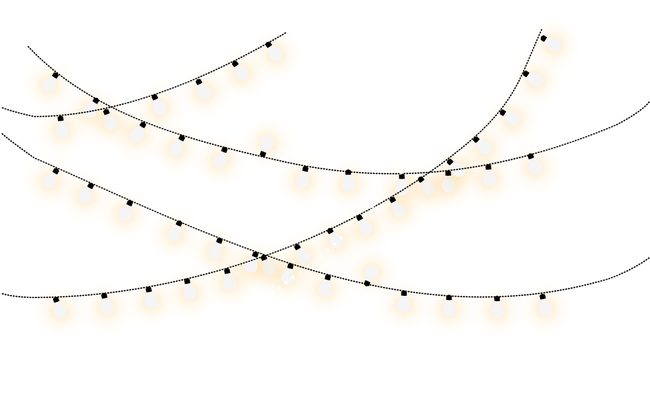
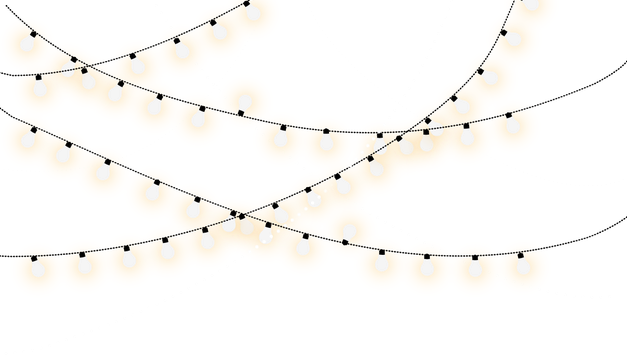
fixing color

diff --git a/index.html b/index.html
@@ -11,7 +11,7 @@
 
 <body>
         <div id="bg">
-                <img src="assets/wallpaper2.jpg" alt="wallpaper2">
+                <img src="assets/wallpaper3.jpg" alt="wallpaper3">
         </div>
         <div id="lights">
                 <img src="assets/kisspng-light-pattern-string-holiday-lights-5a6af66c08a171.7857933415169593400354.png" alt="lights" width="200%">;
@@ -26,7 +26,7 @@
                         <div id="navbar" class="col-sm-8" style="font-family: 'Lucida Sans', 'Lucida Sans Regular', 'Lucida Grande', 'Lucida Sans Unicode', Geneva, Verdana, sans-serif">
                                 <ul class="nav justify-content-end">
                                         <li class="nav-item">
-                                                <a class="nav-link" href="https://wormielove.github.io/Bootstrap-Portfolio/portfolio.html">Boot Camp Projects</a>
+                                                <a style="color:white" class="nav-link" href="https://wormielove.github.io/Bootstrap-Portfolio/portfolio.html">Boot Camp Projects</a>
                                         </li>
                                         <li class="nav-item">
                                                 <a class="nav-link" href="assets/Deb Resume.pdf">Contact Info and Resume</a>

diff --git a/assets/style.css b/assets/style.css
@@ -98,11 +98,13 @@ h2 {
     text-align: block;
     z-index: 2;
     opacity: .98;
+    overflow: auto;
 }
 
 #me-and-kids {
     /* float: left; */
     margin-right: 2%;
+    position: relative;
 }
 
 #note {
@@ -123,6 +125,7 @@ h2 {
 }
 #wontg {
     margin-top: 20px;
+    position: relative;
 }
 
 #links {
@@ -130,6 +133,9 @@ h2 {
 }
 #project1 {
     text-align: center;
+    /* margin-left: 30%;
+    margin-right: 30%; */
+    align-content: center;
     font-size: large;
     border-radius: 25px;
     background-color: rgb(255, 255, 226);

diff --git a/portfolio.html b/portfolio.html
@@ -53,7 +53,6 @@
                                 <img id="wontg" src="assets/WONTG.png" alt="WONTG" width="85%" class="responsive">
                                 </a>
                                 <br>
-                                <br>
                                 <p id="note">(Please click the thumbnails to view.)</p>
                                 <br>
 
